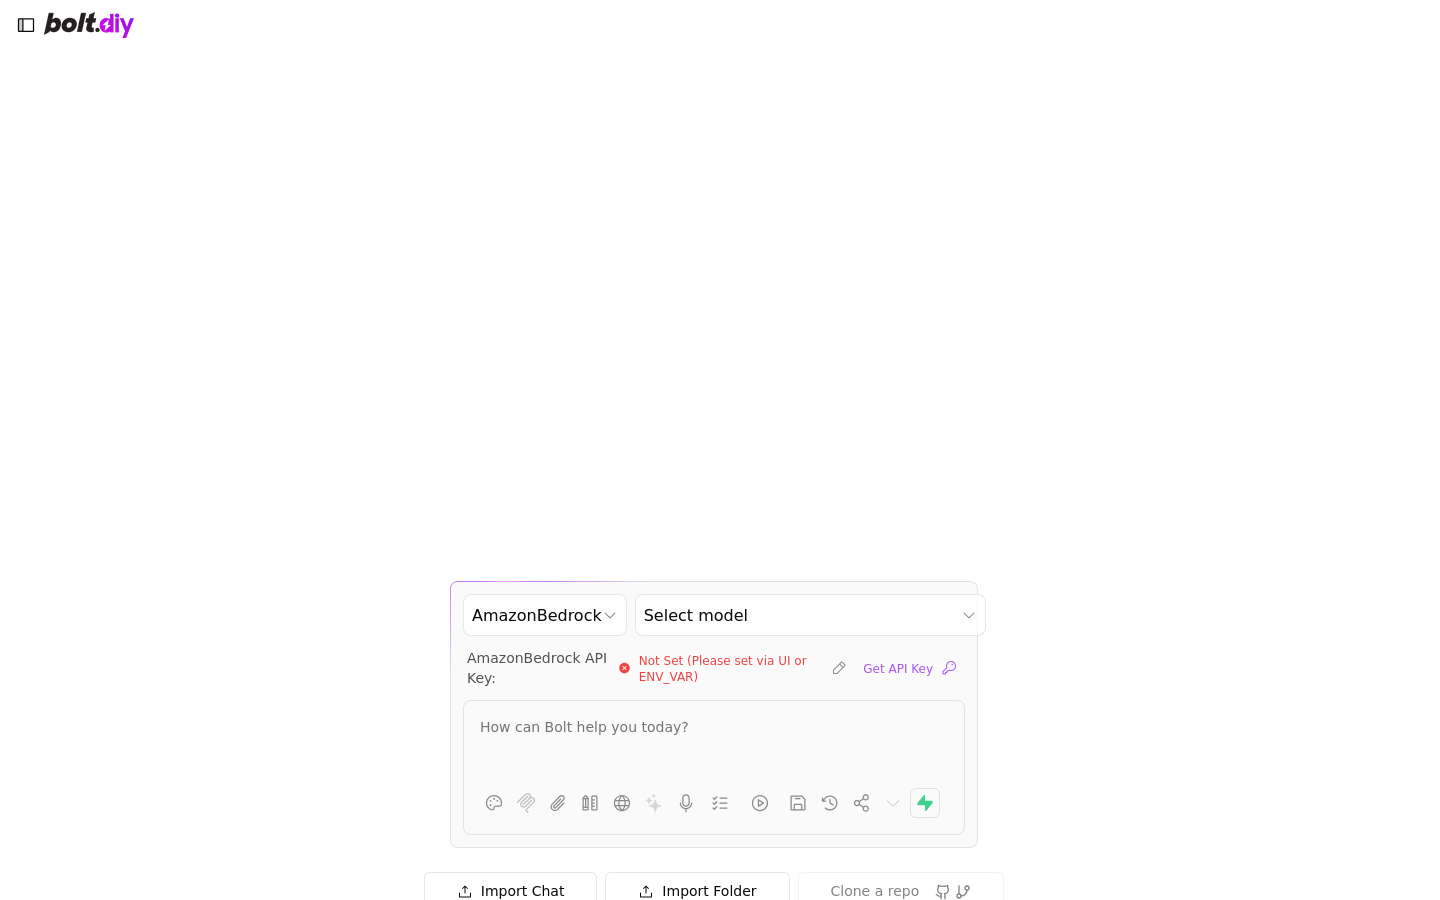
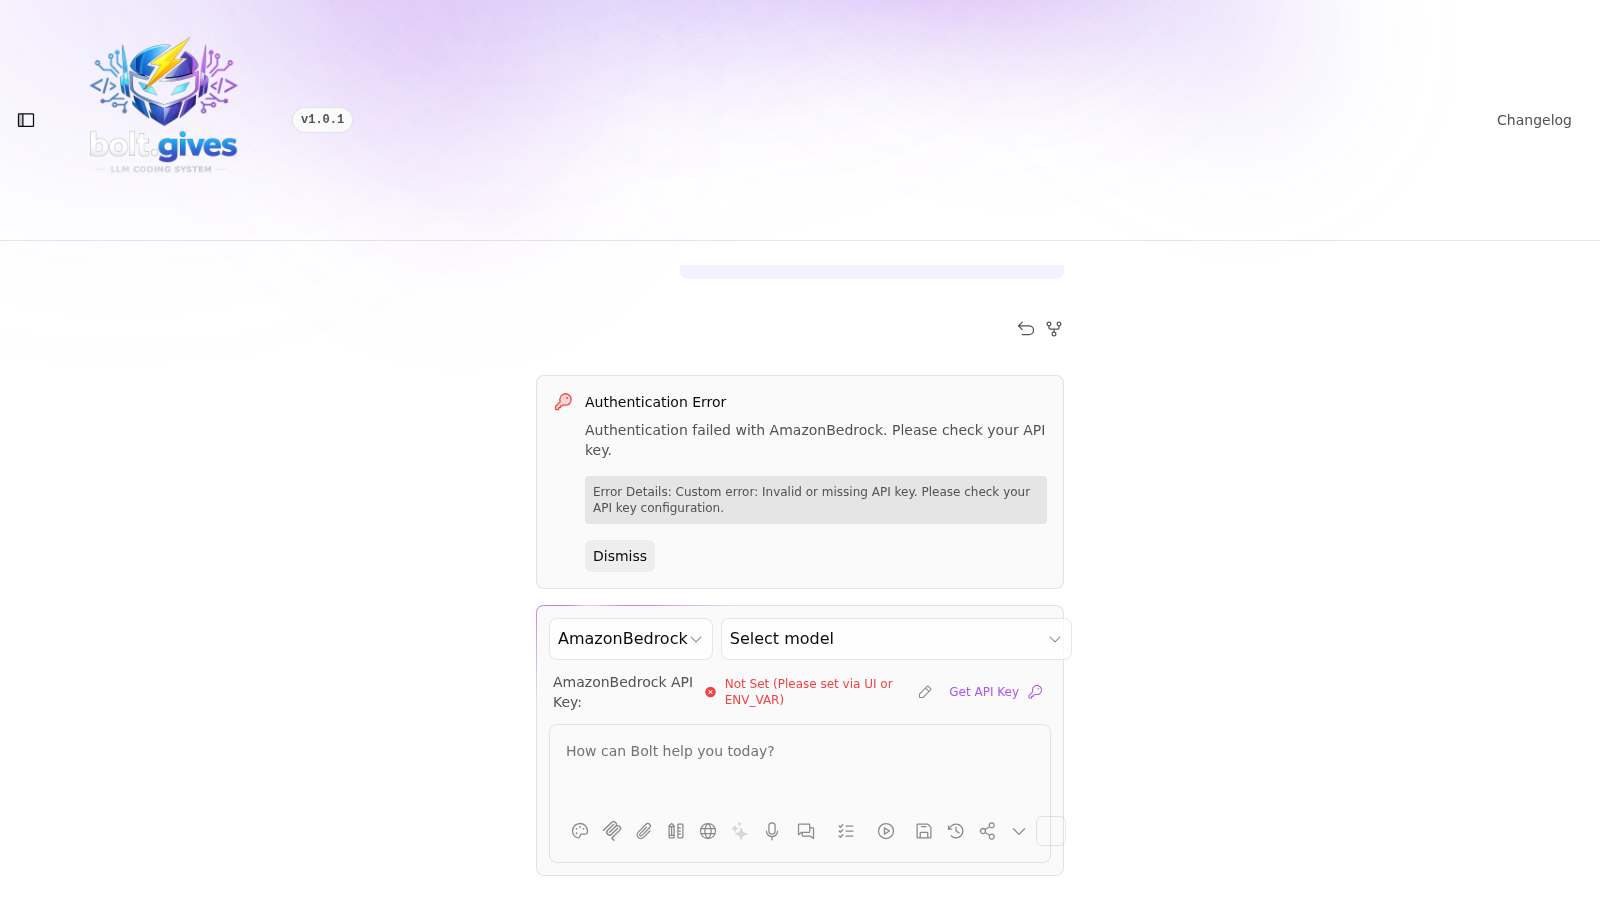
docs: refresh readme for v1.0.1

diff --git a/README.md b/README.md
@@ -1,4 +1,26 @@
-# bolt.gives v1.0.0
+<p align="center">
+  <img src="public/boltlogo2.png" alt="bolt.gives" width="360" />
+</p>
+
+<p align="center">
+  collaborative, open-source ai coding workspace
+</p>
+
+<p align="center">
+  <a href="https://bolt.gives">
+    <img alt="Join the mailing list" src="https://img.shields.io/badge/join%20the%20mailing%20list-bolt.gives-0a84ff?style=for-the-badge" />
+  </a>
+</p>
+
+<p align="center">
+  <a href="https://alpha1.bolt.gives">live alpha</a> ·
+  <a href="CHANGELOG.md">changelog</a> ·
+  <a href="#quickstart-local-development">install</a>
+</p>
+
+## Version
+
+Current version: **v1.0.1**
 
 bolt.gives is a collaborative, open-source AI coding workspace.
 
@@ -15,6 +37,13 @@ It combines:
   - Windows is **not supported** for installation/self-hosting.
   - macOS is **not supported** for installation/self-hosting.
   - If you are on Windows or macOS, use the hosted web app (or deploy to an Ubuntu server and access it from your machine).
+
+## v1.0.1 Highlights
+
+- Image attachments work end-to-end on vision-capable models (client → server payload, converted into core image parts).
+- Better prompting for smaller LLMs (server-side prompt variant selection for constrained models).
+- Multi-step agent execution (default `maxLLMSteps` > 1) with streaming enabled.
+- Changelog shipped both in-repo (`CHANGELOG.md`) and in-app (`/changelog`).
 
 ## v1.0.0 Release Notes
 
@@ -37,8 +66,8 @@ Chat:
 Plan prompt example:
 ![bolt.gives plan prompt](docs/screenshots/chat-plan.png)
 
-Shared session restore (e2e):
-![bolt.gives share session restore](docs/screenshots/share-session-e2e.png)
+Changelog:
+![bolt.gives changelog](docs/screenshots/changelog.png)
 
 ## What The App Does
 
@@ -69,6 +98,10 @@ bolt.gives is a single workspace where you can:
 - Node.js `>= 18.18.0` (recommended: Node.js `22`)
 - `pnpm` (recommended: via `corepack`)
 - `git`
+
+Notes:
+- You can **use** bolt.gives on Windows/macOS in a browser.
+- You cannot **install/self-host** bolt.gives on Windows/macOS today; use an Ubuntu 18+ server instead.
 
 ### Install Node.js + pnpm (Ubuntu)
 
@@ -101,6 +134,8 @@ Setup:
 pnpm install
 cp .env.example .env.local
 ```
+
+Then edit `.env.local` and set at least one provider key you intend to use (example: OpenAI, Anthropic, etc).
 
 Optional (guided env setup):
 ```bash
@@ -166,14 +201,17 @@ Outputs:
 - `docs/screenshots/home.png`
 - `docs/screenshots/chat.png`
 - `docs/screenshots/chat-plan.png`
+- `docs/screenshots/changelog.png`
 
-To generate the shared-session restore screenshot (requires Supabase configured in `.env.local`):
+To capture screenshots from the live alpha environment instead of a local dev server:
+```bash
+SKIP_DEV_SERVER=1 BASE_URL=https://alpha1.bolt.gives ./scripts/capture-screenshots.sh
+```
+
+To generate a shared-session restore screenshot (requires Supabase configured in `.env.local`):
 ```bash
 node scripts/e2e-sessions-share-link.mjs
 ```
-
-Output:
-- `docs/screenshots/share-session-e2e.png`
 
 ## Validation Gate
 
@@ -183,6 +221,11 @@ pnpm run typecheck
 pnpm run lint
 pnpm test
 ```
+
+## Mailing List
+
+Join our mailing list for future updates and release announcements:
+- https://bolt.gives
 
 ## Docker Images (GHCR)
 
